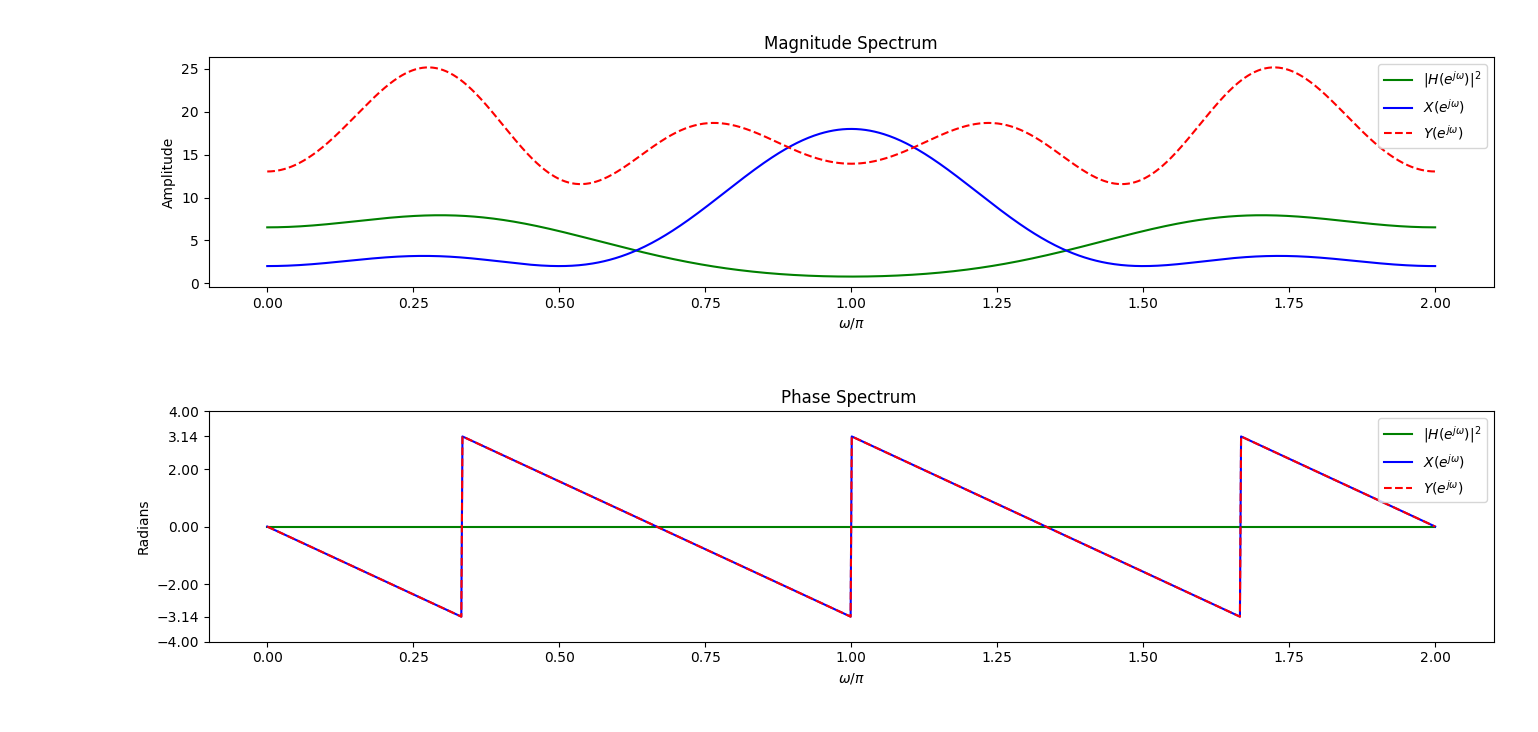
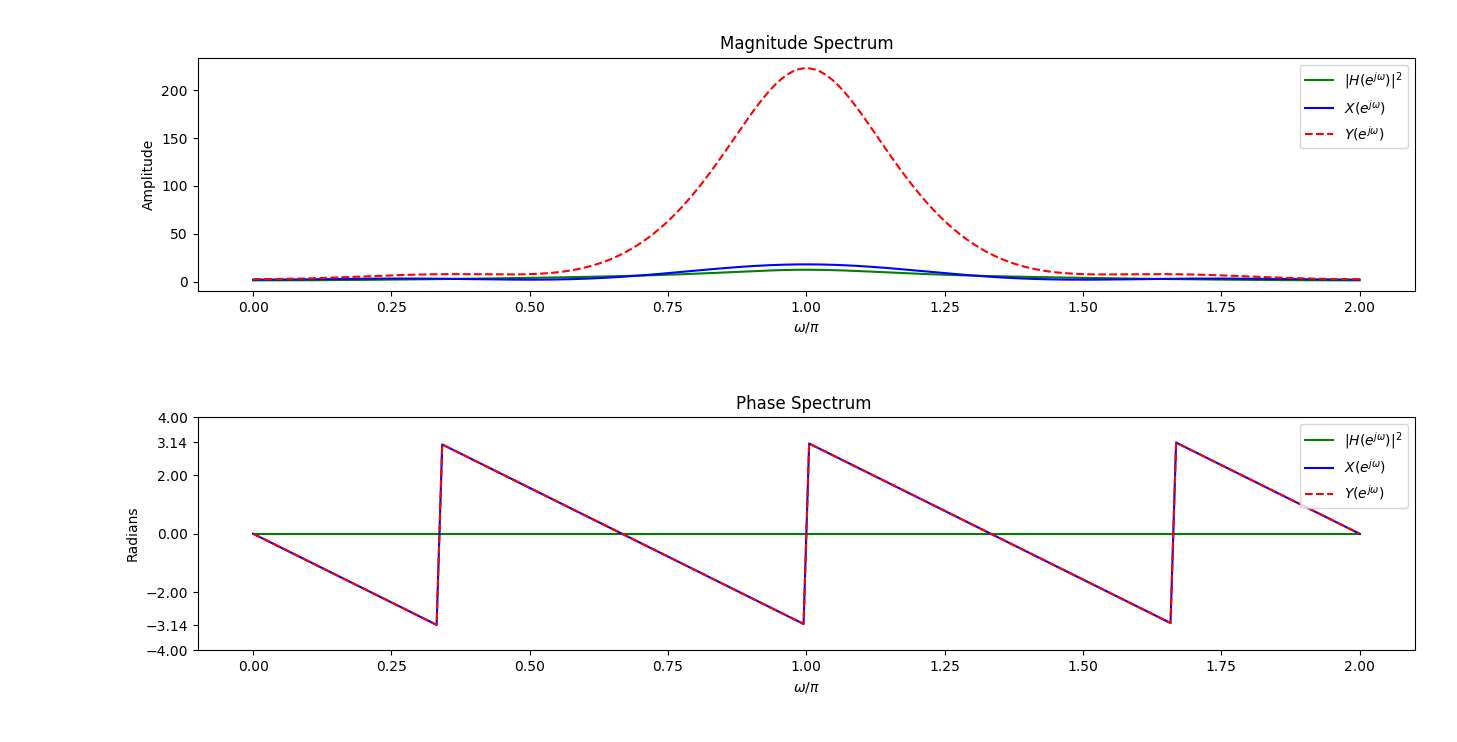
program1 be changed

diff --git a/hw07/program1/program7-1.py b/hw07/program1/program7-1.py
@@ -14,9 +14,9 @@ def cos_exp(omega,constant=1):
 
 if __name__ =='__main__':
     pi= np.pi 
-    omega = np.linspace(0,2*pi,1024)
+    omega = np.linspace(0,2*pi,200)
     X=np.exp(-1j*3*omega)*(6 - 6*cos_exp(omega) +4*cos_exp(omega,2) -2*cos_exp(omega,3) )
-    H=(4*(1.09+0.6*cos_exp(omega))*(1.16-0.8*cos_exp(omega))) /(1.04-0.2*cos_exp(omega))*(1.25+cos_exp(omega))
+    H=(4*(1.09+0.6*cos_exp(omega))*(1.16-0.8*cos_exp(omega)))/((1.04-0.2*cos_exp(omega))*(1.25+cos_exp(omega)))
     Y=X*H
     plt.subplot(2,1,1)
     plt.plot(omega/pi,np.abs(H),'g',label='$|H(e^{j\omega})|^2$')
